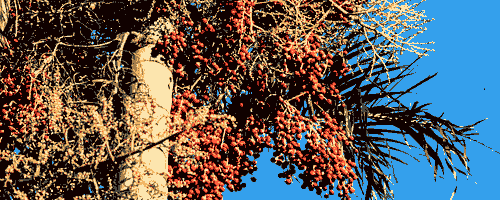
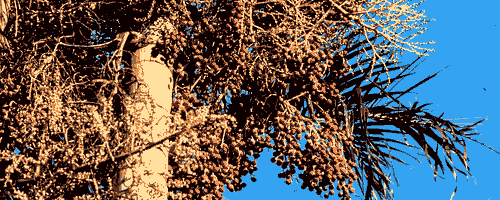
✨ Add distance order option

diff --git a/colors_clustering/gui.py b/colors_clustering/gui.py
@@ -24,7 +24,13 @@ from PySide6.QtWidgets import (
 from PySide6 import QtWidgets, QtCore
 
 from colors_clustering.algorithms import KMeans, DBScan
-from interfaces import AlgorithmType, KMeansOptions, AlgorithmOptions, DBScanOptions
+from interfaces import (
+    AlgorithmType,
+    KMeansOptions,
+    AlgorithmOptions,
+    DBScanOptions,
+    DistanceType,
+)
 
 
 class AlgorithmWorker(QObject):
@@ -59,21 +65,30 @@ class AlgorithmWorker(QObject):
             if algorithm == AlgorithmType.KMEANS:
                 algo = KMeans(file_path)
                 self.stateChanged.emit("Applying KMeans algorithm")
-                algo.fit(n_clusters=options.clusters, accuracy=options.accuracy)
+                algo.fit(
+                    n_clusters=options.clusters,
+                    accuracy=options.accuracy,
+                    distance_order=options.distance_type.value,
+                )
                 self.stateChanged.emit("Exporting result")
                 self.result_ready.emit(
                     algo.save(os.path.split(file_path)[0] + "edited.png")
                 )
             elif algorithm == AlgorithmType.DBSCAN:
-                algo = DBScan(file_path, options.minimum_points, options.epsilon)
+                algo = DBScan(file_path)
                 self.stateChanged.emit("Applying DBScan algorithm")
                 algo.progress.connect(lambda x: self.progress.emit(x))
-                algo.fit()
+                algo.fit(
+                    options.minimum_points,
+                    options.epsilon,
+                    distance_order=options.distance_type.value,
+                )
                 self.stateChanged.emit("Exporting result")
                 self.result_ready.emit(
                     algo.save(os.path.split(file_path)[0] + "edited.png")
                 )
         except Exception:
+            self.stateChanged.emit("An error as occurred. Please retry.")
             print(traceback.format_exc())
 
 
@@ -120,25 +135,35 @@ class KMeansOptionsDialog(QDialog):
 
         self.k_value_combo_box = QComboBox()
         self.accuracy_line_edit = QLineEdit()
+        self.distance_type_combo_box = QComboBox()
         self.accuracy_line_edit.setText(str(options.accuracy))
 
         for i in [8, 16, 32, 64]:
             self.k_value_combo_box.addItem(str(i))
         self.k_value_combo_box.setCurrentText(str(self.options.clusters))
 
-        self.layout.addWidget(QLabel("Number of clusters"), 0, 0)
-        self.layout.addWidget(self.k_value_combo_box, 0, 1)
+        for distance_type in DistanceType:
+            self.distance_type_combo_box.addItem(str(distance_type.name))
+        self.distance_type_combo_box.setCurrentText(
+            str(self.options.distance_type.name)
+        )
 
-        self.layout.addWidget(QLabel("Accuracy [0; 255]"), 1, 0)
-        self.layout.addWidget(self.accuracy_line_edit, 1, 1)
+        self.layout.addWidget(QLabel("Distance type"), 0, 0)
+        self.layout.addWidget(self.distance_type_combo_box, 0, 1)
+
+        self.layout.addWidget(QLabel("Number of clusters"), 1, 0)
+        self.layout.addWidget(self.k_value_combo_box, 1, 1)
+
+        self.layout.addWidget(QLabel("Accuracy [0; 255]"), 2, 0)
+        self.layout.addWidget(self.accuracy_line_edit, 2, 1)
 
         self.save_button = QPushButton("Save", self)
         self.save_button.clicked.connect(self.button_pressed)
-        self.layout.addWidget(self.save_button, 2, 0)
+        self.layout.addWidget(self.save_button, 3, 0)
 
         self.cancel_button = QPushButton("Cancel", self)
         self.cancel_button.clicked.connect(self.button_pressed)
-        self.layout.addWidget(self.cancel_button, 2, 1)
+        self.layout.addWidget(self.cancel_button, 3, 1)
 
         self.apply_style()
 
@@ -151,8 +176,11 @@ class KMeansOptionsDialog(QDialog):
         None
         """
         if self.sender() == self.save_button:
+            self.options.distance_type = DistanceType[
+                self.distance_type_combo_box.currentText()
+            ]
             self.options.clusters = int(self.k_value_combo_box.currentText())
-            self.options.accuracy = int(self.accuracy_line_edit.text())
+            self.options.accuracy = float(self.accuracy_line_edit.text())
         else:
             self.options = self.initial_options
         self.close()
@@ -234,26 +262,36 @@ class DBScanOptionsDialog(QDialog):
 
         self.epsilon_value_line_edit = QLineEdit()
         self.nb_points_value_line_edit = QLineEdit()
+        self.distance_type_combo_box = QComboBox()
+
+        for distance_type in DistanceType:
+            self.distance_type_combo_box.addItem(str(distance_type.name))
+        self.distance_type_combo_box.setCurrentText(
+            str(self.options.distance_type.name)
+        )
 
         self.epsilon_value_line_edit.setText(str(self.options.epsilon))
         self.epsilon_value_line_edit.setValidator(QIntValidator(0, 100, self))
 
-        self.layout.addWidget(QLabel("Epsilon"), 0, 0)
-        self.layout.addWidget(self.epsilon_value_line_edit, 0, 1)
+        self.layout.addWidget(QLabel("Distance type"), 0, 0)
+        self.layout.addWidget(self.distance_type_combo_box, 0, 1)
+
+        self.layout.addWidget(QLabel("Epsilon"), 1, 0)
+        self.layout.addWidget(self.epsilon_value_line_edit, 1, 1)
 
         self.nb_points_value_line_edit.setText(str(self.options.minimum_points))
         self.nb_points_value_line_edit.setValidator(QIntValidator(0, 100, self))
 
-        self.layout.addWidget(QLabel("Minimum number of points"), 1, 0)
-        self.layout.addWidget(self.nb_points_value_line_edit, 1, 1)
+        self.layout.addWidget(QLabel("Minimum number of points"), 2, 0)
+        self.layout.addWidget(self.nb_points_value_line_edit, 2, 1)
 
         self.save_button = QPushButton("Save", self)
         self.save_button.clicked.connect(self.button_pressed)
-        self.layout.addWidget(self.save_button, 2, 0)
+        self.layout.addWidget(self.save_button, 3, 0)
 
         self.cancel_button = QPushButton("Cancel", self)
         self.cancel_button.clicked.connect(self.button_pressed)
-        self.layout.addWidget(self.cancel_button, 2, 1)
+        self.layout.addWidget(self.cancel_button, 3, 1)
 
         self.apply_style()
 
@@ -266,7 +304,10 @@ class DBScanOptionsDialog(QDialog):
         None
         """
         if self.sender() == self.save_button:
-            self.options.epsilon = int(self.epsilon_value_line_edit.text())
+            self.options.distance_type = DistanceType[
+                self.distance_type_combo_box.currentText()
+            ]
+            self.options.epsilon = float(self.epsilon_value_line_edit.text())
             self.options.minimum_points = int(self.nb_points_value_line_edit.text())
         else:
             self.options = self.initial_options

diff --git a/colors_clustering/algorithms.py b/colors_clustering/algorithms.py
@@ -1,3 +1,4 @@
+from functools import partial
 import multiprocessing as mp
 import numpy as np
 import random
@@ -11,7 +12,9 @@ from interfaces import Algorithm
 NOISE_POINT = -3
 
 
-def get_neighbours(pixels_map: np.array, point: np.array, epsilon: float):
+def get_neighbours(
+    pixels_map: np.array, point: np.array, epsilon: float, distance_order: int
+):
     """
     Get all the neighbours of a point in the given radius.
 
@@ -23,13 +26,17 @@ def get_neighbours(pixels_map: np.array, point: np.array, epsilon: float):
         The point to get the neighbours of.
     epsilon : float
         The radius where to search.
+    distance_order : int
+        Order of the Frobenius norm.
 
     Returns
     -------
     list of coordinates.
     """
 
-    distances = np.linalg.norm(pixels_map - pixels_map[point[0], point[1]], axis=2)
+    distances = np.linalg.norm(
+        pixels_map - pixels_map[point[0], point[1]], ord=distance_order, axis=2
+    )
     x, y = np.where(distances <= epsilon)
     return list(zip(x, y))
 
@@ -81,20 +88,29 @@ def color_in_array(array: list[list[int]], subarray: list[int]) -> bool:
     return False
 
 
-def choose_best_cluster(data: tuple[int, int, list, list]) -> tuple[int, int, int]:
+def choose_best_cluster(
+    distance_order: int, data: tuple[int, int, list, list]
+) -> tuple[int, int, int]:
     """
     Choose the nearest cluster point.
 
     Parameters
     ----------
+    distance_order : int
+        Order of the Frobenius norm.
     data : (int, int, list, list)
         Data as (x, y, [R, G, B], list_of_clusters)
+
     Returns
     -------
     (int, int, int)
     """
     x, y, color, clusters_points = data
-    return x, y, np.argmin(np.linalg.norm(clusters_points - color, axis=1))
+    return (
+        x,
+        y,
+        np.argmin(np.linalg.norm(clusters_points - color, ord=distance_order, axis=1)),
+    )
 
 
 class KMeans(Algorithm):
@@ -122,7 +138,7 @@ class KMeans(Algorithm):
         Create new random clusters.
     """
 
-    def __init__(self, picture_path: str = None):
+    def __init__(self, picture_path: str):
         """
         Create a KMeans model instance.
 
@@ -139,18 +155,23 @@ class KMeans(Algorithm):
         self.clusters_points = []
         self.trained = False
 
-    def fit(self, picture_path: str = None, n_clusters: int = 8, accuracy: float = 1):
+    def fit(
+        self,
+        n_clusters: int = 8,
+        accuracy: float = 1,
+        distance_order: int = 2,
+    ):
         """
         Train and fit the algorithm.
 
         Parameters
         ----------
-        picture_path : str
-            Path of the picture.
         n_clusters : int
             Number of clusters to create.
         accuracy : float
             Maximum mean distance between cluster centers
+        distance_order : int
+            Order of the Frobenius norm.
 
         Returns
         -------
@@ -158,8 +179,6 @@ class KMeans(Algorithm):
         """
         self.n_clusters = n_clusters
 
-        if picture_path:
-            self.pixels_map = picture_to_pixelmap(picture_path)
         if not self.pixels_map.any():
             raise RuntimeError("You must provide the path of the picture.")
 
@@ -178,7 +197,7 @@ class KMeans(Algorithm):
                     )
 
             with mp.Pool(8) as p:
-                result = p.map(choose_best_cluster, colors_map)
+                result = p.map(partial(choose_best_cluster, distance_order), colors_map)
 
             for (x, y, cluster) in result:
                 self.nearest_cluster[x][y] = cluster
@@ -259,7 +278,7 @@ class KMeans(Algorithm):
 class DBScan(Algorithm, QObject):
     progress = Signal(int)
 
-    def __init__(self, picture_path: str, minimum_points: int = 3, epsilon: float = 5):
+    def __init__(self, picture_path: str):
         super().__init__()
 
         if picture_path:
@@ -269,15 +288,21 @@ class DBScan(Algorithm, QObject):
 
         self.cluster_mapping = None
         self.nb_cluster = 0
-        self.minimum_points = minimum_points
-        self.epsilon = epsilon
+        self.minimum_points = 5
+        self.epsilon = 3
         self.trained = False
 
-    def fit(self, picture_path: str = None):
-        if picture_path:
-            self.pixels_map = picture_to_pixelmap(picture_path)
+    def fit(
+        self,
+        minimum_points: int = 3,
+        epsilon: float = 5,
+        distance_order: int = 2,
+    ):
         if not self.pixels_map.any():
             raise RuntimeError("You must provide the path of the picture.")
+
+        self.minimum_points = minimum_points
+        self.epsilon = epsilon
 
         width, height, _ = self.pixels_map.shape
 
@@ -291,7 +316,9 @@ class DBScan(Algorithm, QObject):
 
         while len(to_label):
             point = to_label[0]
-            neighbours = get_neighbours(self.pixels_map, point, self.epsilon)
+            neighbours = get_neighbours(
+                self.pixels_map, point, self.epsilon, distance_order
+            )
             if len(neighbours) < self.minimum_points:
                 self.cluster_mapping[point[0], point[1]] = NOISE_POINT
             else:
@@ -300,7 +327,7 @@ class DBScan(Algorithm, QObject):
                 for point in neighbours:
                     if self.cluster_mapping[point[0], point[1]] == 0:
                         neighbours_bis = get_neighbours(
-                            self.pixels_map, point, self.epsilon
+                            self.pixels_map, point, self.epsilon, distance_order
                         )
                         if len(neighbours_bis) >= self.minimum_points:
                             neighbours += neighbours_bis

diff --git a/colors_clustering/interfaces.py b/colors_clustering/interfaces.py
@@ -8,6 +8,11 @@ class AlgorithmType(Enum):
     DBSCAN = "DBScan"
 
 
+class DistanceType(Enum):
+    EUCLIDEAN = 2
+    MANHATTAN = 1
+
+
 class Algorithm:
     """
     Abstract class for algorithm.
@@ -35,11 +40,13 @@ class Algorithm:
 
 
 class AlgorithmOptions:
-    pass
+    def __init__(self):
+        self.distance_type = DistanceType.EUCLIDEAN
 
 
 class KMeansOptions(AlgorithmOptions):
     def __init__(self):
+        super().__init__()
         self.clusters = 8
         self.accuracy = 1
 
@@ -49,6 +56,7 @@ class KMeansOptions(AlgorithmOptions):
 
 class DBScanOptions(AlgorithmOptions):
     def __init__(self):
+        super().__init__()
         self.minimum_points = 3
         self.epsilon = 1.5
 
